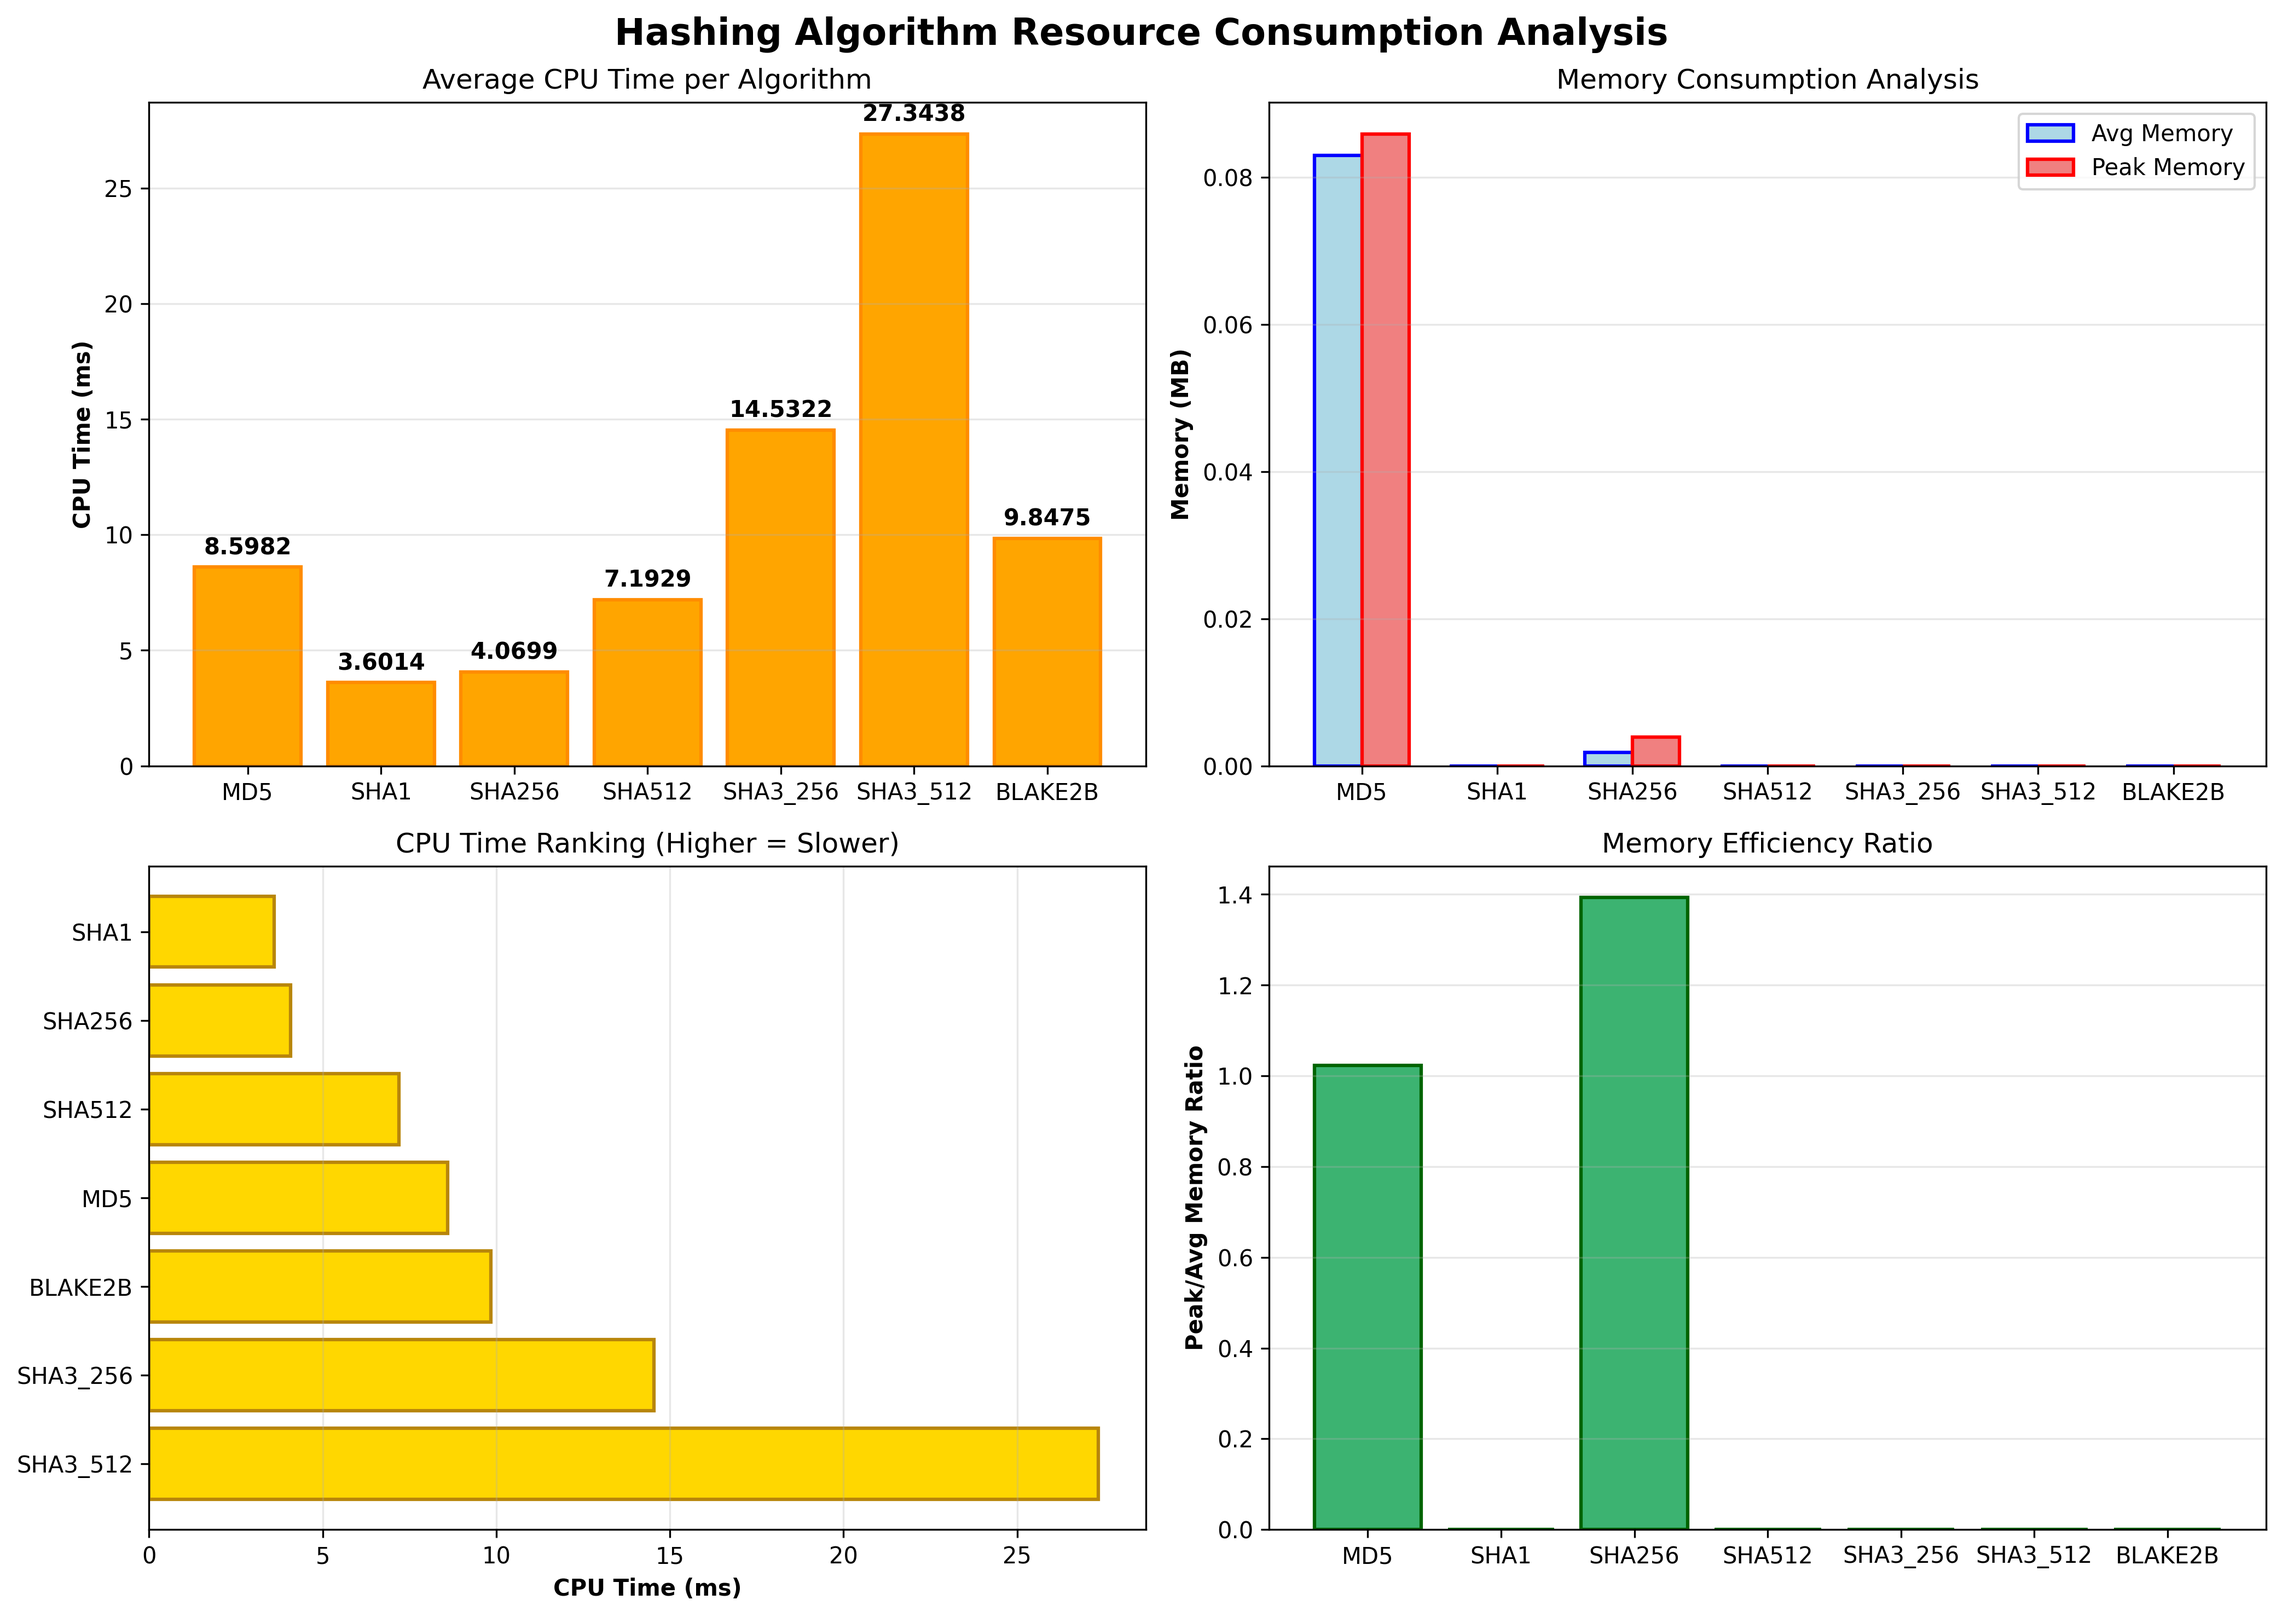
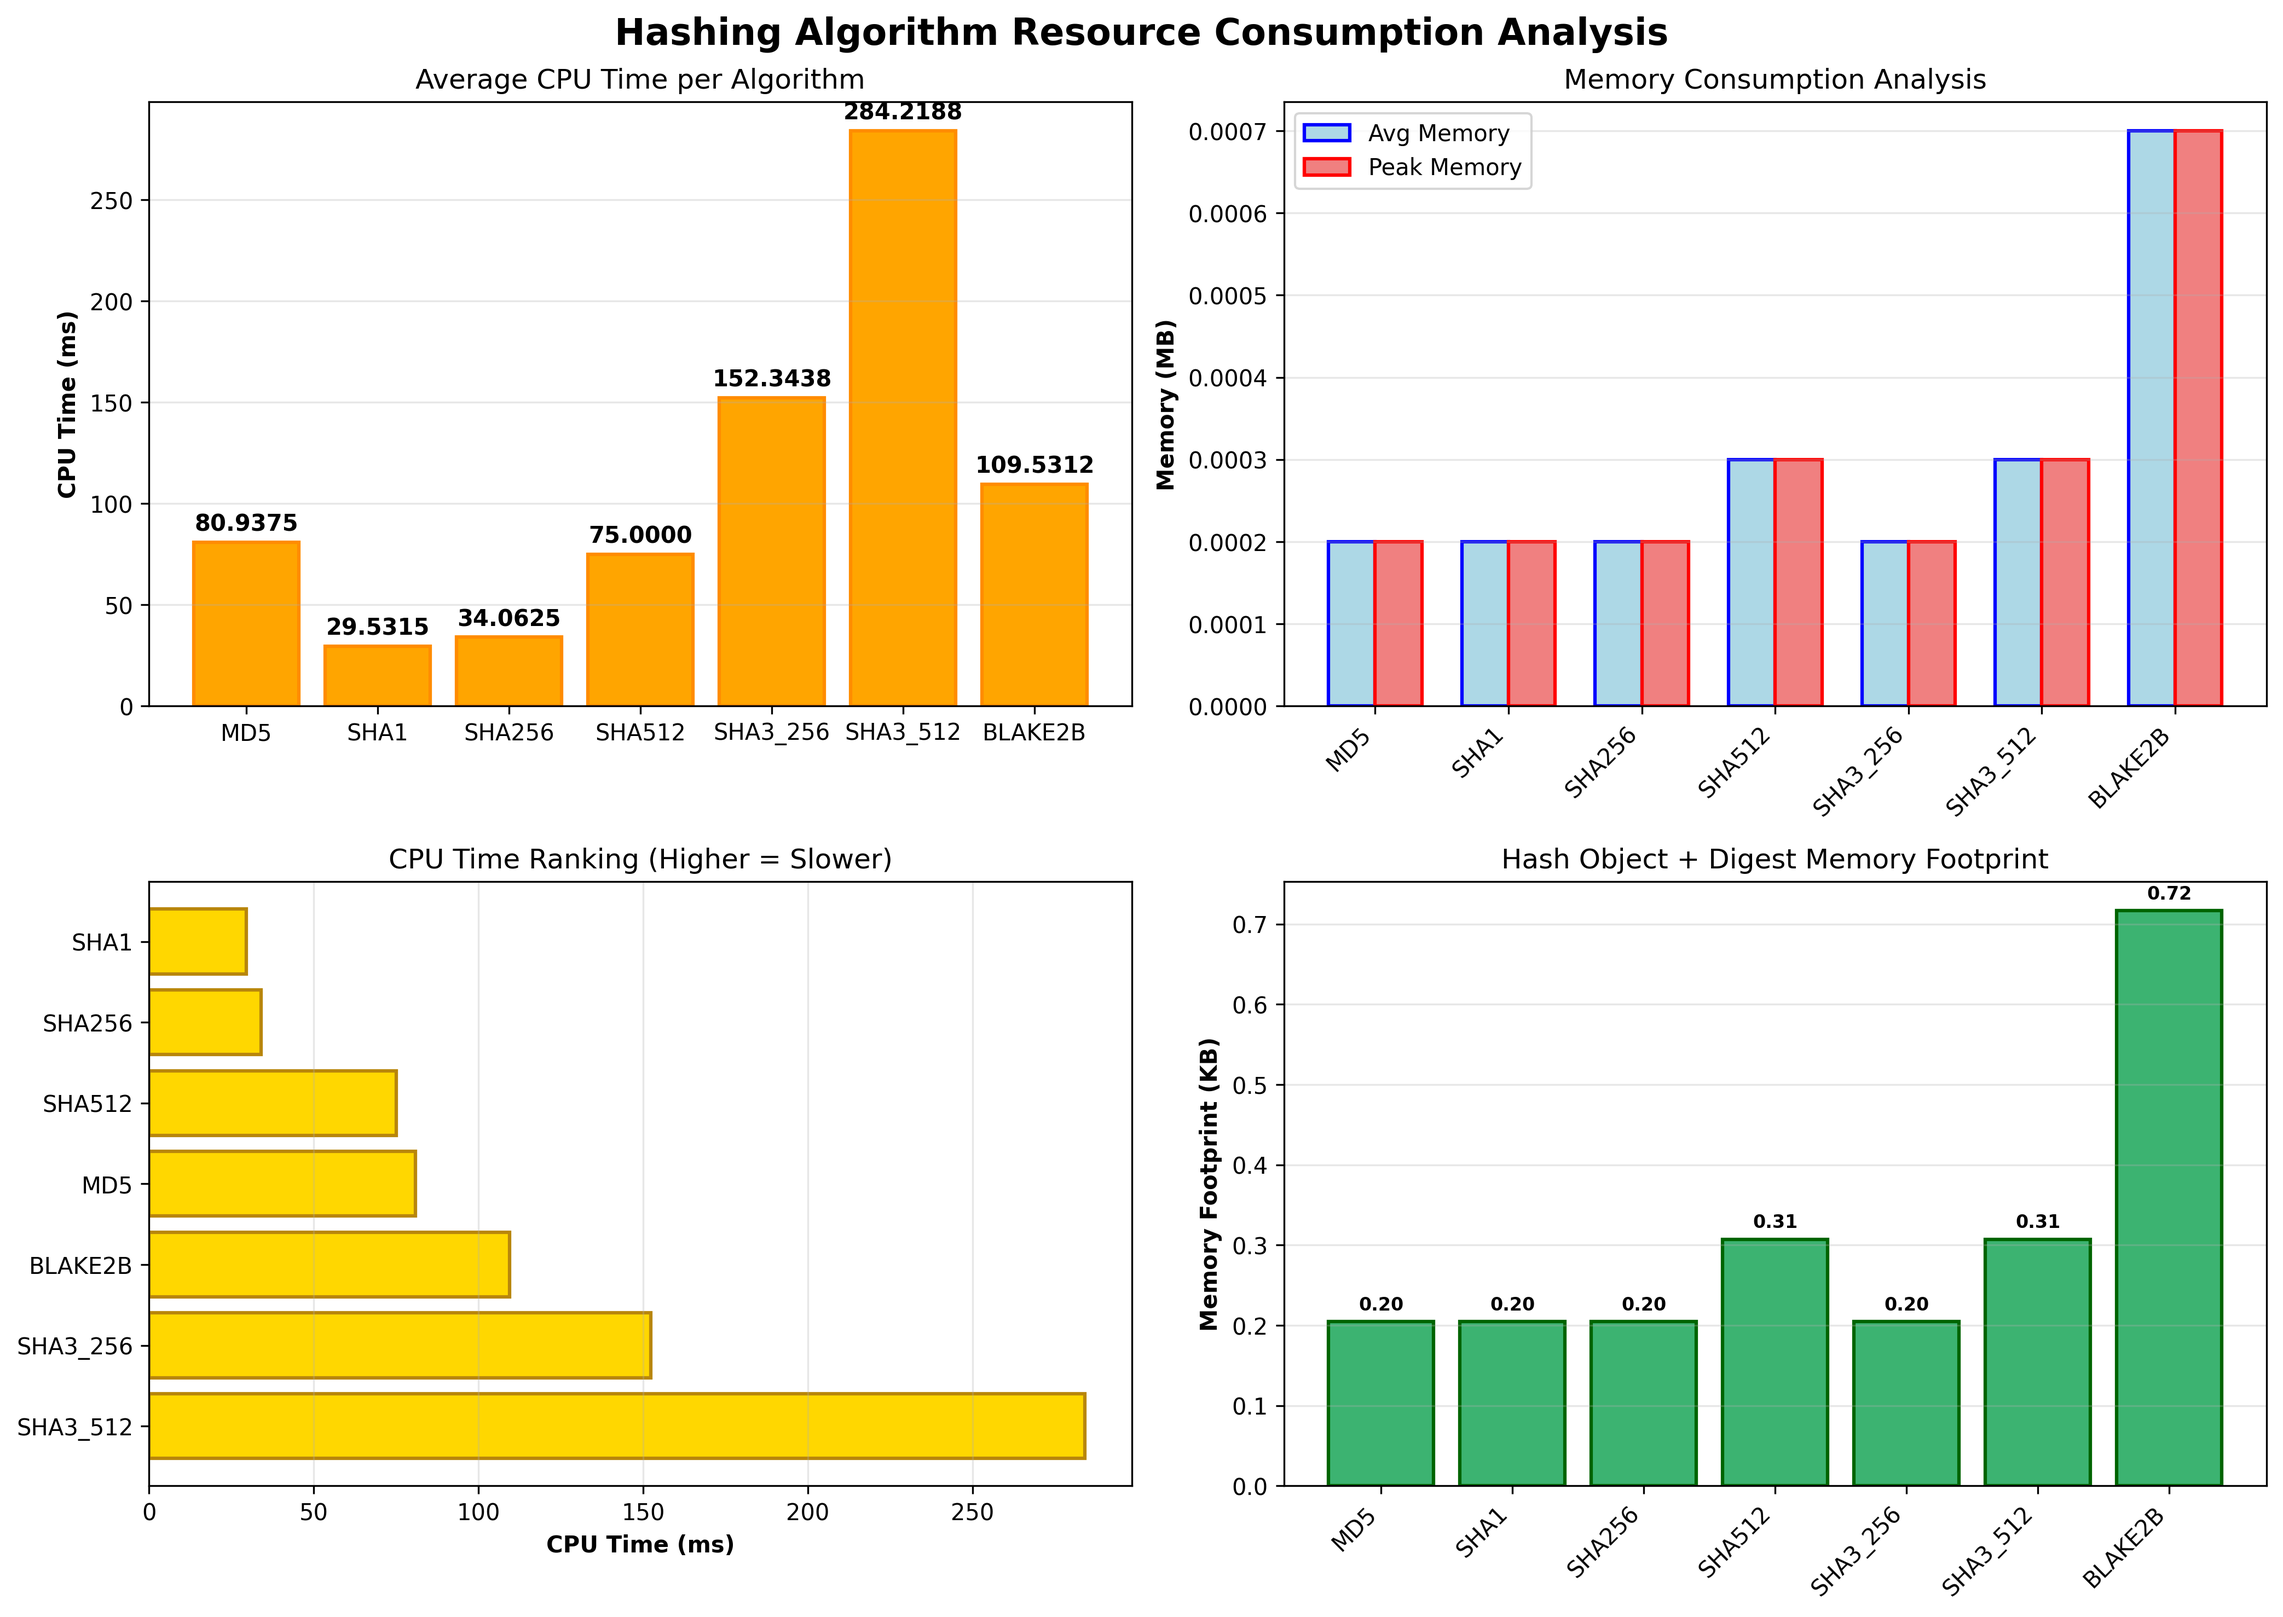
fix memory consumption of hashing

diff --git a/src/hashing_analysis.py b/src/hashing_analysis.py
@@ -10,6 +10,7 @@ import csv
 import time
 import psutil
 import gc
+import sys
 import matplotlib.pyplot as plt
 import numpy as np
 
@@ -73,66 +74,76 @@ class HashingPerformanceAnalysis:
         print("RESOURCE CONSUMPTION TEST")
         print("="*70)
         
-        test_data = self.generate_test_data(10*1024*1024)  # 10MB test data
+        # Use larger test data to amplify memory differences
+        test_data_size = 100 * 1024 * 1024  # 100MB test data
+        test_data = self.generate_test_data(test_data_size)
         
         for algo in self.algorithms:
             print(f"\nTesting {algo.upper()}...")
             cpu_times = []
-            memory_usage = []
-            
-            # Force garbage collection and establish baseline
-            gc.collect()
-            time.sleep(0.1)  # Let things settle
-            
-            # Take multiple baseline measurements
-            baselines = []
-            for _ in range(5):
-                baselines.append(self.process.memory_info().rss / (1024 * 1024))
-                time.sleep(0.01)
-            baseline_memory = np.median(baselines)
+            hash_object_sizes = []
+            digest_sizes = []
+            total_object_sizes = []
             
             for _ in range(self.iterations):
                 # Force garbage collection before measurement
                 gc.collect()
                 
                 cpu_start = self.process.cpu_times()
-                mem_before = self.process.memory_info().rss / (1024 * 1024)
+                
+                # Create hash object and measure its size
+                h = hashlib.new(algo)
+                hash_obj_size = sys.getsizeof(h) / 1024  # Convert to KB
                 
                 # Perform hashing
-                h = hashlib.new(algo)
                 h.update(test_data)
-                digest = h.hexdigest()
                 
-                mem_after = self.process.memory_info().rss / (1024 * 1024)
+                # Measure hash object size after update (may have internal buffers)
+                hash_obj_size_after = sys.getsizeof(h) / 1024  # Convert to KB
+                
+                # Generate digests
+                digest = h.digest()
+                digest_hex = h.hexdigest()
+                
+                # Measure digest sizes
+                digest_size = (sys.getsizeof(digest) + sys.getsizeof(digest_hex)) / 1024  # KB
+                
+                # Calculate total memory used by all hash-related objects
+                total_size = hash_obj_size_after + digest_size
+                
                 cpu_end = self.process.cpu_times()
                 
                 cpu_time = (cpu_end.user - cpu_start.user) * 1000  # Convert to ms
-                # Use the difference from baseline instead of just before/after
-                memory_delta = max(0, mem_after - baseline_memory)
                 
                 cpu_times.append(cpu_time if cpu_time > 0 else 0.01)
-                memory_usage.append(memory_delta)
+                hash_object_sizes.append(hash_obj_size_after)
+                digest_sizes.append(digest_size)
+                total_object_sizes.append(total_size)
                 
                 # Clean up for next iteration
-                del h, digest
+                del h, digest, digest_hex
             
             avg_cpu = np.mean(cpu_times)
-            avg_memory = np.mean(memory_usage)
-            peak_memory = np.max(memory_usage)
+            avg_hash_obj_size = np.mean(hash_object_sizes)
+            avg_digest_size = np.mean(digest_sizes)
+            avg_total_size = np.mean(total_object_sizes)
+            peak_total_size = np.max(total_object_sizes)
             
             result = {
                 'algorithm': algo.upper(),
-                'data_size_mb': test_data.__sizeof__() / (1024 * 1024),
+                'data_size_mb': test_data_size / (1024 * 1024),
                 'avg_cpu_time_ms': round(avg_cpu, 4),
-                'avg_memory_mb': round(avg_memory, 4),
-                'peak_memory_mb': round(peak_memory, 4),
+                'avg_memory_mb': round(avg_total_size / 1024, 4),  # Convert KB to MB
+                'peak_memory_mb': round(peak_total_size / 1024, 4),  # Convert KB to MB
                 'iterations': self.iterations
             }
             
             self.resource_results.append(result)
             print(f"  CPU Time: {avg_cpu:.4f}ms | "
-                  f"Avg Memory: {avg_memory:.4f}MB | "
-                  f"Peak Memory: {peak_memory:.4f}MB")
+                  f"Hash Object: {avg_hash_obj_size:.4f}KB | "
+                  f"Digest: {avg_digest_size:.4f}KB | "
+                  f"Total Memory: {avg_total_size:.4f}KB | "
+                  f"Peak: {peak_total_size:.4f}KB")
     
     def test_collision_resistance(self):
         """Test avalanche effect and collision resistance"""
@@ -334,7 +345,7 @@ class HashingPerformanceAnalysis:
         axes[0, 1].set_ylabel('Memory (MB)', fontweight='bold')
         axes[0, 1].set_title('Memory Consumption Analysis')
         axes[0, 1].set_xticks(x)
-        axes[0, 1].set_xticklabels(df['algorithm'])
+        axes[0, 1].set_xticklabels(df['algorithm'], rotation=45, ha='right')
         axes[0, 1].legend()
         axes[0, 1].grid(True, alpha=0.3, axis='y')
         
@@ -346,13 +357,17 @@ class HashingPerformanceAnalysis:
         axes[1, 0].set_title('CPU Time Ranking (Higher = Slower)')
         axes[1, 0].grid(True, alpha=0.3, axis='x')
         
-        # Plot 4: Memory efficiency (ratio)
-        df['memory_efficiency'] = df['peak_memory_mb'] / (df['avg_memory_mb'] + 0.001)
-        axes[1, 1].bar(df['algorithm'], df['memory_efficiency'], color='mediumseagreen', 
+        # Plot 4: Object memory footprint
+        axes[1, 1].bar(df['algorithm'], df['avg_memory_mb'] * 1024, color='mediumseagreen', 
                       edgecolor='darkgreen', linewidth=1.5)
-        axes[1, 1].set_ylabel('Peak/Avg Memory Ratio', fontweight='bold')
-        axes[1, 1].set_title('Memory Efficiency Ratio')
+        axes[1, 1].set_ylabel('Memory Footprint (KB)', fontweight='bold')
+        axes[1, 1].set_title('Hash Object + Digest Memory Footprint')
+        axes[1, 1].set_xticklabels(df['algorithm'], rotation=45, ha='right')
         axes[1, 1].grid(True, alpha=0.3, axis='y')
+        
+        for i, v in enumerate(df['avg_memory_mb'].values * 1024):
+            axes[1, 1].text(i, v + max(df['avg_memory_mb'] * 1024)*0.02, f'{v:.2f}', 
+                           ha='center', fontweight='bold', fontsize=8)
         
         plt.tight_layout()
         plt.savefig(filename, dpi=300, bbox_inches='tight')
